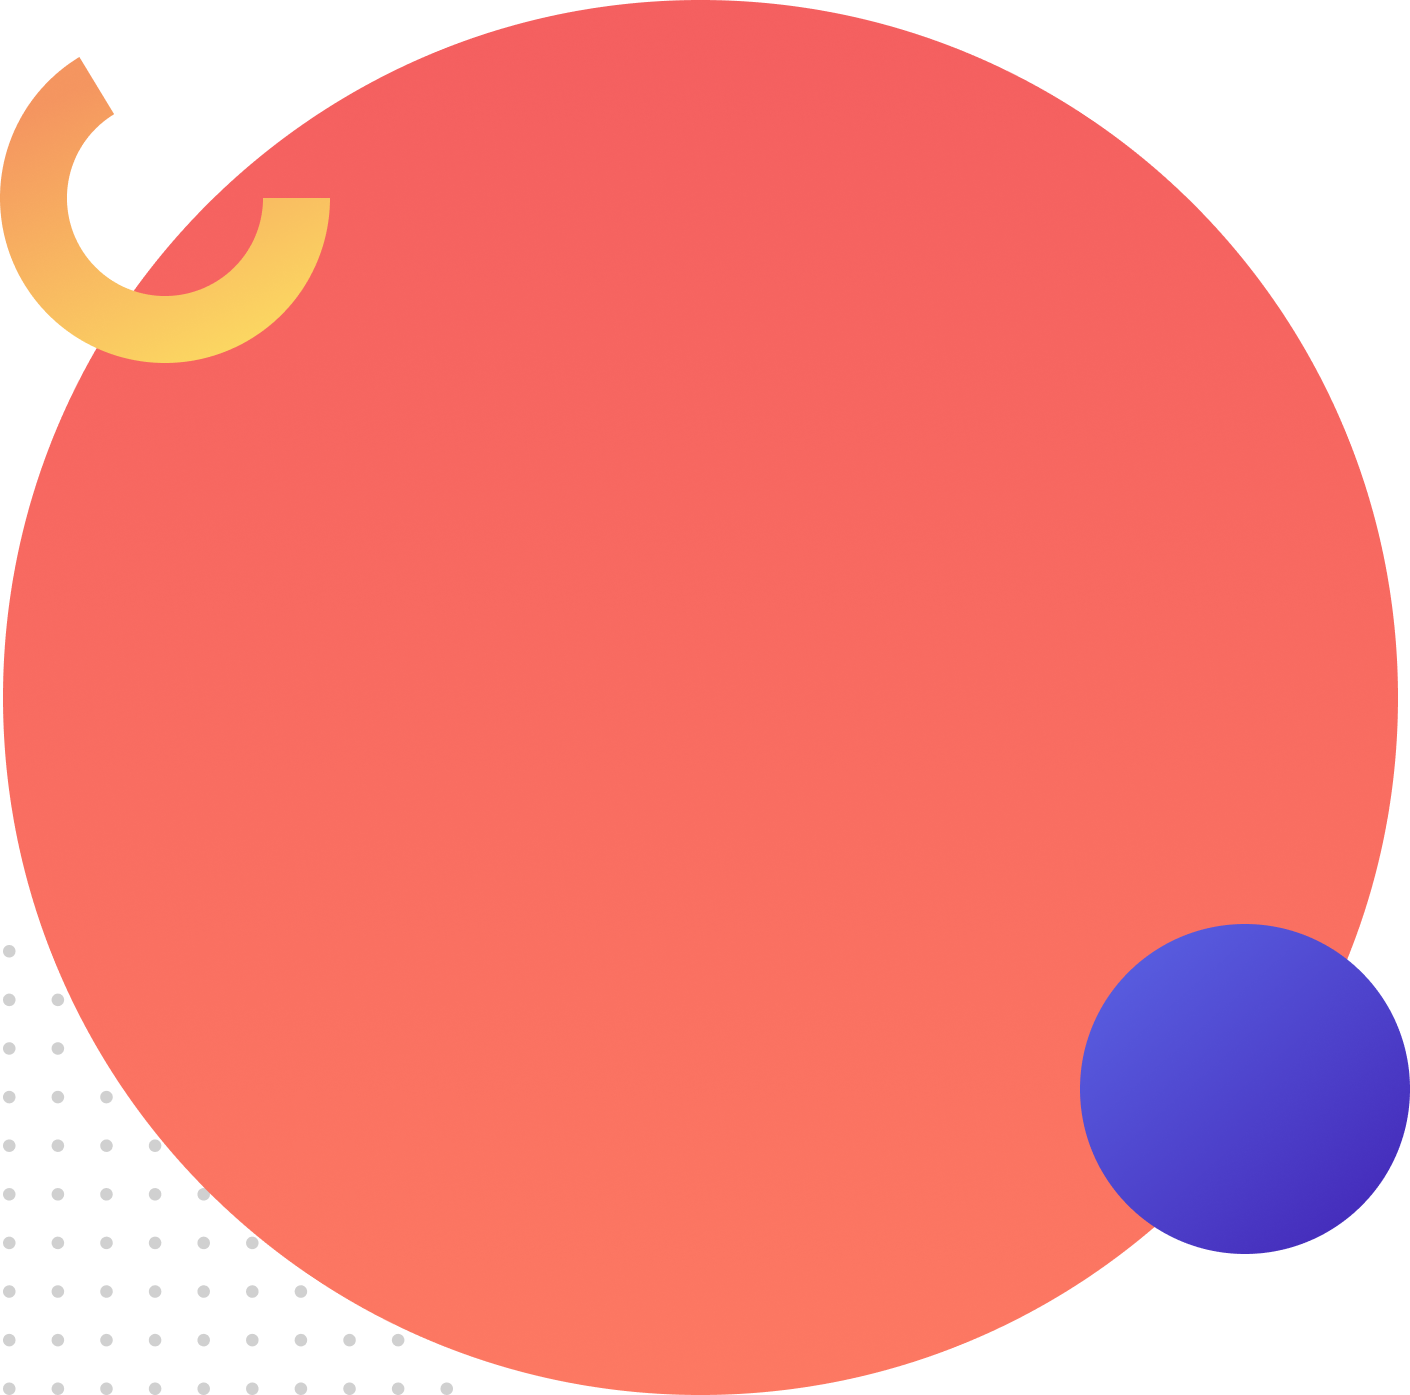
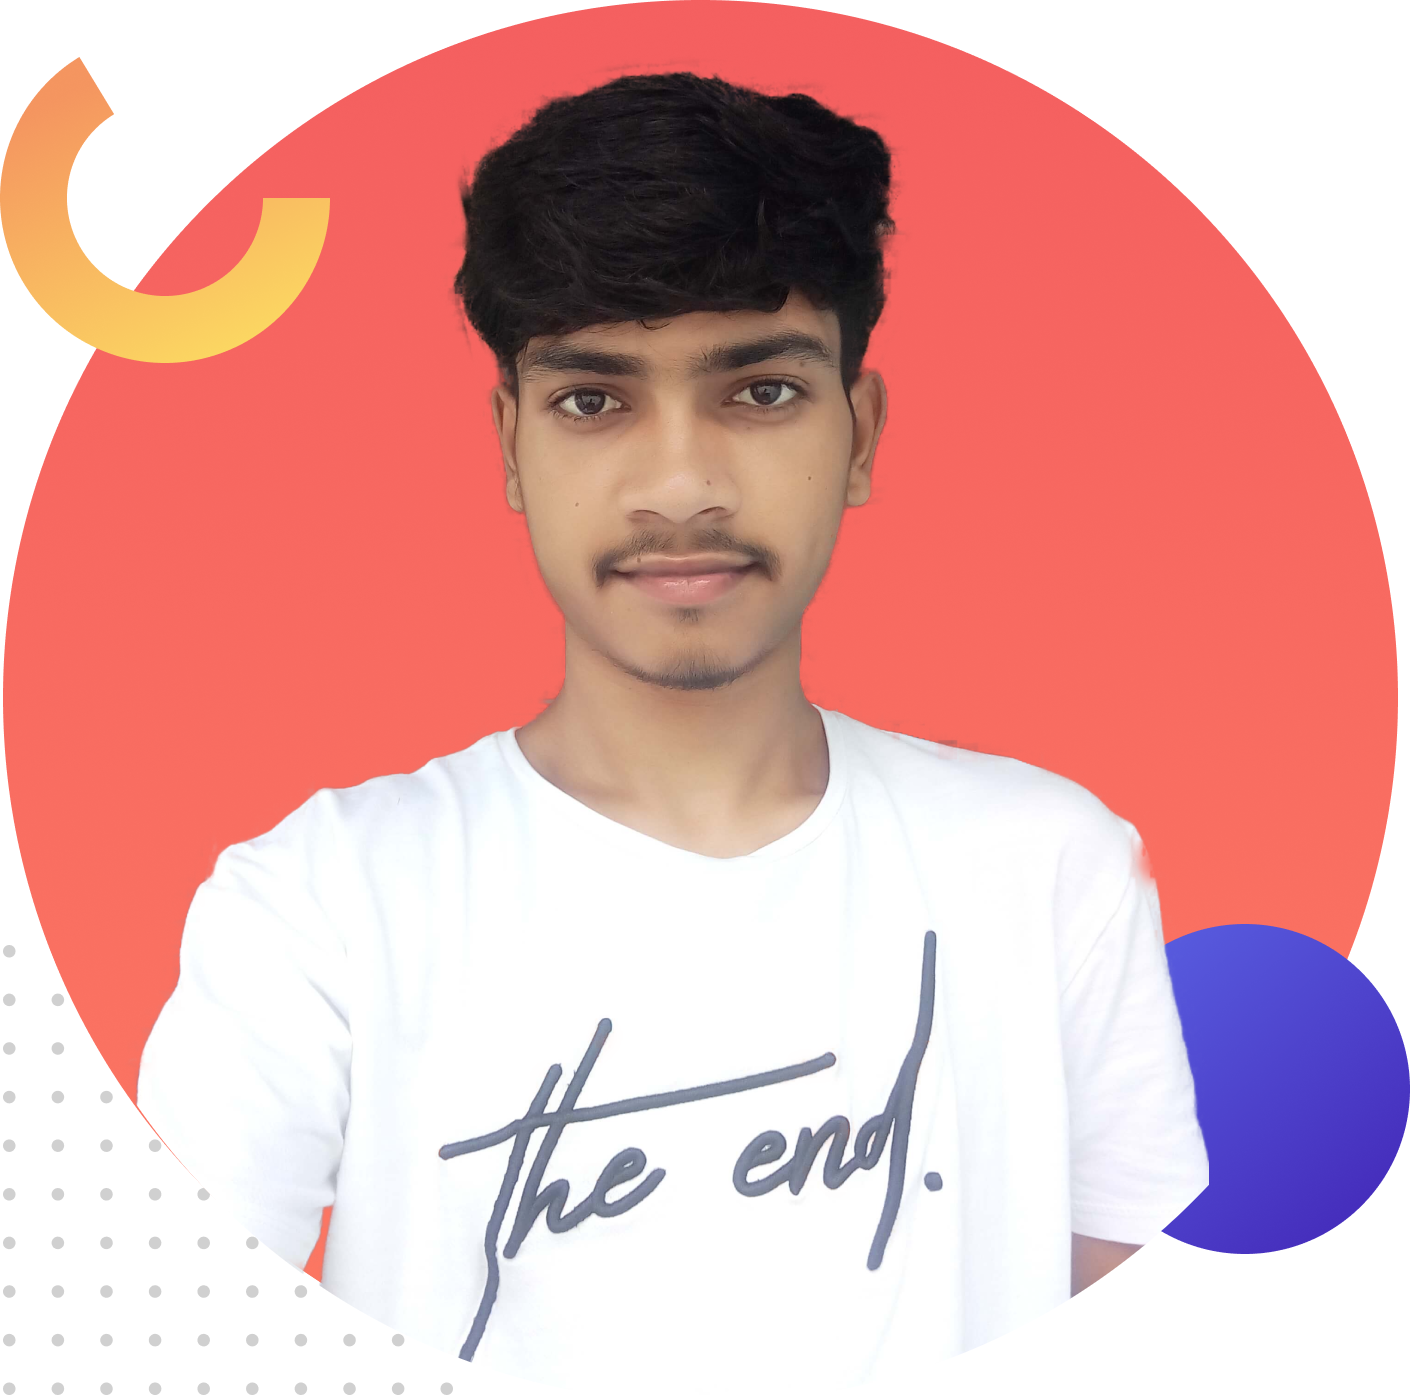
finished my personal website

diff --git a/index.html b/index.html
@@ -16,12 +16,12 @@
             <a class="site-button" href="https://www.mahfuztech.com" target="_blank">HIRE ME</a>
         </div>
         <div class="half-width">
-            <img src="images/Group 33084.png" alt="My Picture">
+            <img src="images/Group 33080.png" alt="My Picture">
         </div>
     </section>
     <section class="second-section">
         <div class="half-width">
-            <img src="images/Group 33088.png" alt="My Picture">
+            <img src="images/my-profile.png" alt="My Picture">
         </div>
         <div class="half-width">
             <h2>ABOUT ME</h2>
